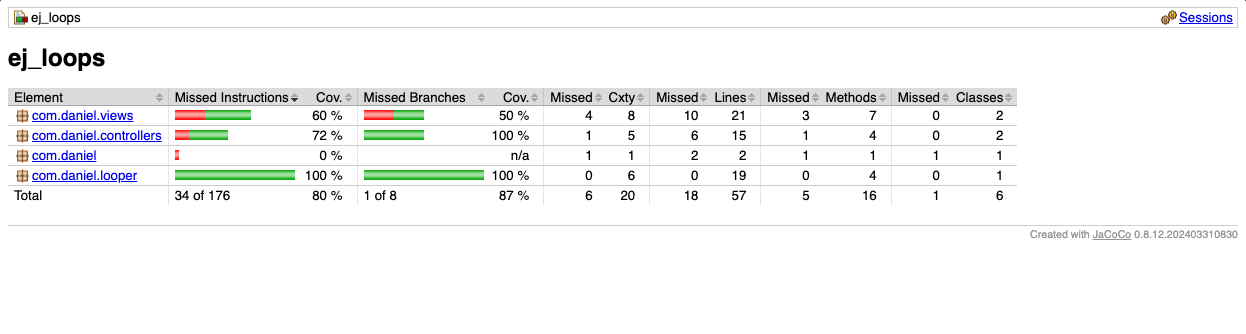
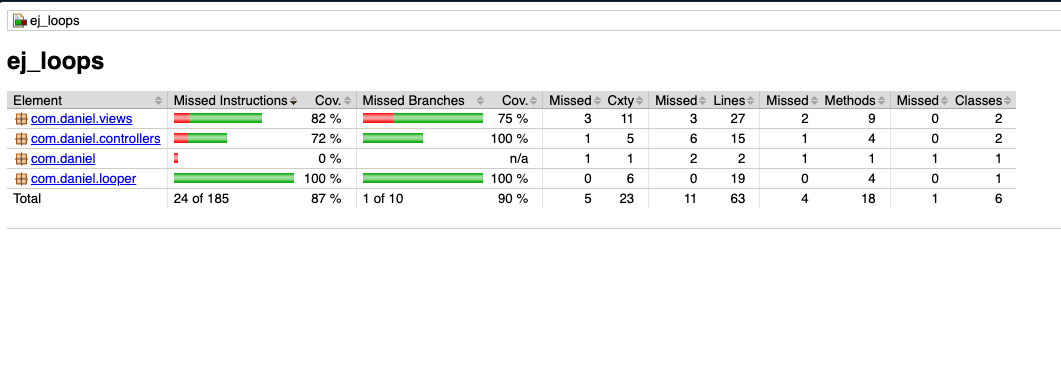
feat: class View improved for using Scanner in tests more correct. Added HomeView tests

diff --git a/src/test/java/com/daniel/views/HomeViewTest.java b/src/test/java/com/daniel/views/HomeViewTest.java
@@ -1,7 +1,10 @@
 package com.daniel.views;
 
 import java.io.ByteArrayOutputStream;
+import java.io.ByteArrayInputStream;
 import java.io.PrintStream;
+import java.util.Scanner;
+import java.io.InputStream;
 
 import org.junit.jupiter.api.Test;
 
@@ -22,11 +25,46 @@ public class HomeViewTest {
         System.setOut(new PrintStream(outputStreamCaptor));
     }
 
-    @AfterEach
-    void tearDown() {
-        System.setOut(originalOut);
+    
+    @Test
+    void testHomeView_printMenu() {
+        String commands = String.format("%s\n%s\n", "5", "q");
+        ByteArrayInputStream inputStream = new ByteArrayInputStream(commands.getBytes());
+        View.setScanner(new Scanner(inputStream));
+
+        String numberRequest = "Your number is:";
+        String result = "5 x 1 = 5";
+
+        HomeView.printMenu();
+
+        assertThat(outputStreamCaptor.toString().trim(), containsString(numberRequest));
+        assertThat(outputStreamCaptor.toString().trim(), containsString(result));
     }
 
+    @Test
+    void testPrintMenu_shouldExitOnQ() {
+        Scanner fakeScanner = new Scanner(new ByteArrayInputStream("q\n".getBytes()));
+        View.setScanner(fakeScanner);
+
+        int result = HomeView.printMenu();
+
+        assertThat(result, is(1));
+    }
+
+    @Test
+    void testHomeView_printMenuIncorrectInput() {
+        String commands = String.format("%s\n%s\n%s\n", "plumbus", "6", "q");
+        ByteArrayInputStream inputStream = new ByteArrayInputStream(commands.getBytes());
+        View.setScanner(new Scanner(inputStream));
+
+        String numberRequest = "Please, enter the valid number";
+        String result = "6 x 6 = 36";
+
+        HomeView.printMenu();
+
+        assertThat(outputStreamCaptor.toString().trim(), containsString(numberRequest));
+        assertThat(outputStreamCaptor.toString().trim(), containsString(result));
+    }
 
     @Test
     void testHomeView_welcomeMessage() {
@@ -51,6 +89,12 @@ public class HomeViewTest {
 
         assertThat(output, containsString(expected));
 
+    }
+
+    @AfterEach
+    void tearDown() {
+        System.setOut(originalOut);
+        View.resetScanner();
     }
 
 }

diff --git a/src/main/java/com/daniel/views/View.java b/src/main/java/com/daniel/views/View.java
@@ -4,6 +4,24 @@ import java.util.Scanner;
 
 public class View {
 
-    protected static final Scanner SCANNER = new Scanner(System.in);
+    protected static Scanner scanner;
+    
+    protected static Scanner getScanner() {
+        if (scanner == null) {
+            scanner = new Scanner(System.in);
+        }
+        return scanner;
+    }    
+    
+    // for tests
+    protected static void setScanner(Scanner customScanner) {
+        scanner = customScanner;
+    }
+
+    // between tests
+    protected static void resetScanner() {
+        scanner = null;
+    }
+    
 
 }

diff --git a/src/main/java/com/daniel/views/HomeView.java b/src/main/java/com/daniel/views/HomeView.java
@@ -24,7 +24,7 @@ public class HomeView extends View {
 
         System.out.print("\nYour number is: ");
 
-        String input = SCANNER.nextLine();
+        String input = getScanner().nextLine();
 
         try {
 
@@ -47,6 +47,6 @@ public class HomeView extends View {
     }
 
     private static void out() {
-        SCANNER.close();
+        getScanner().close();
     }
 }
